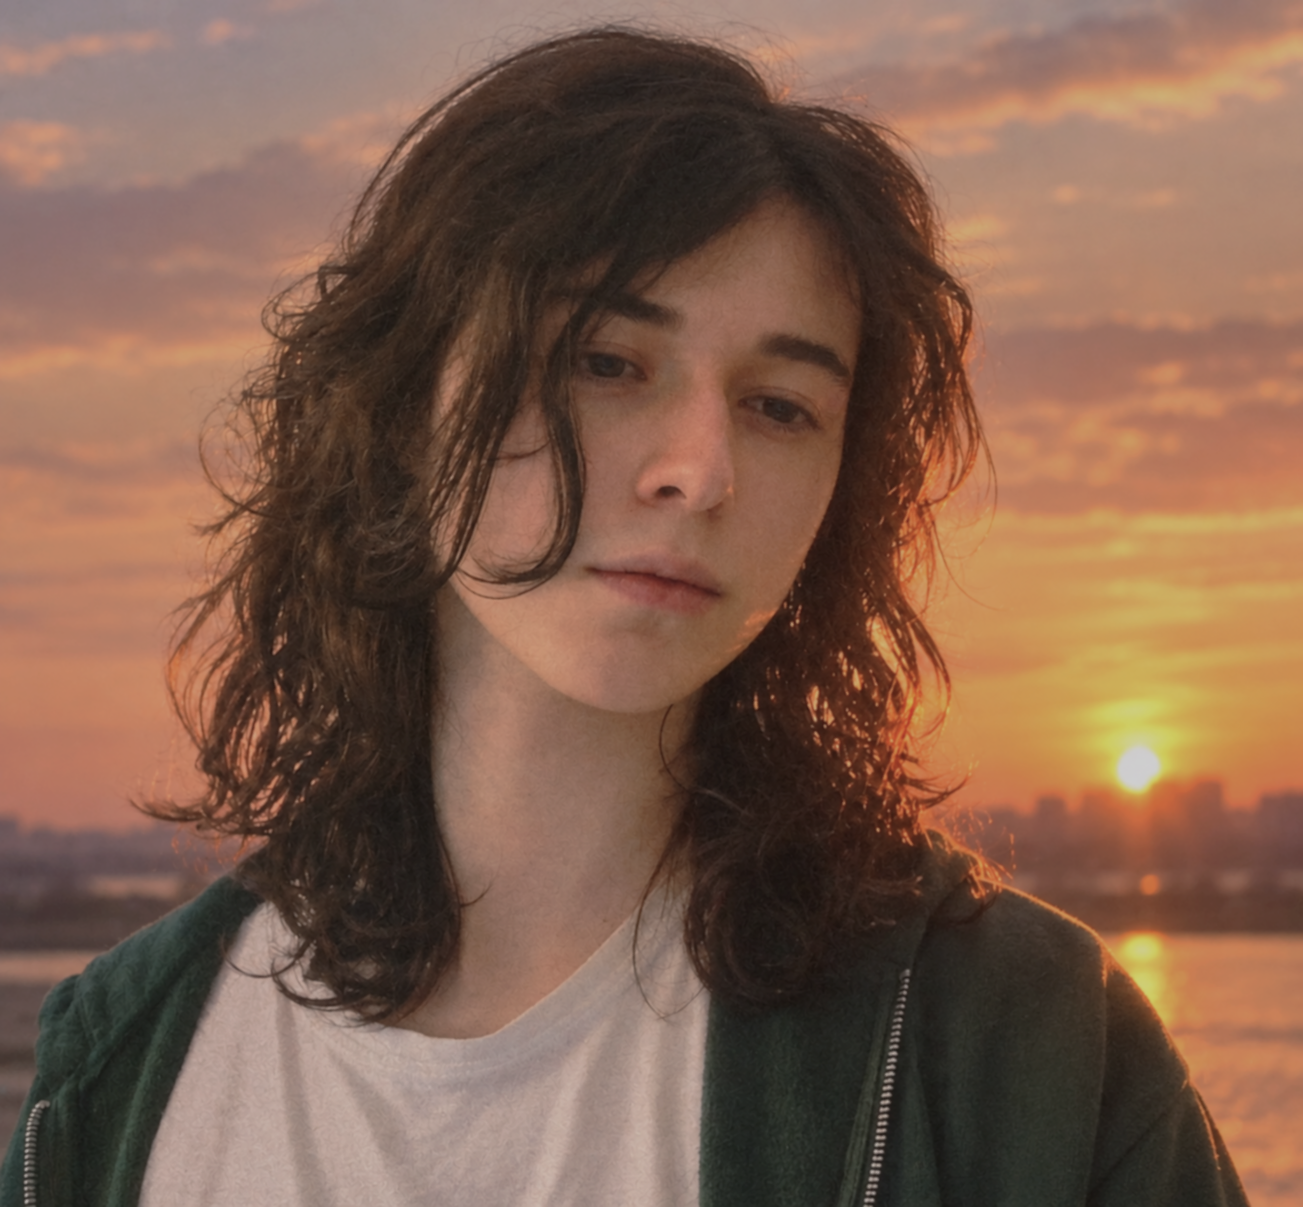
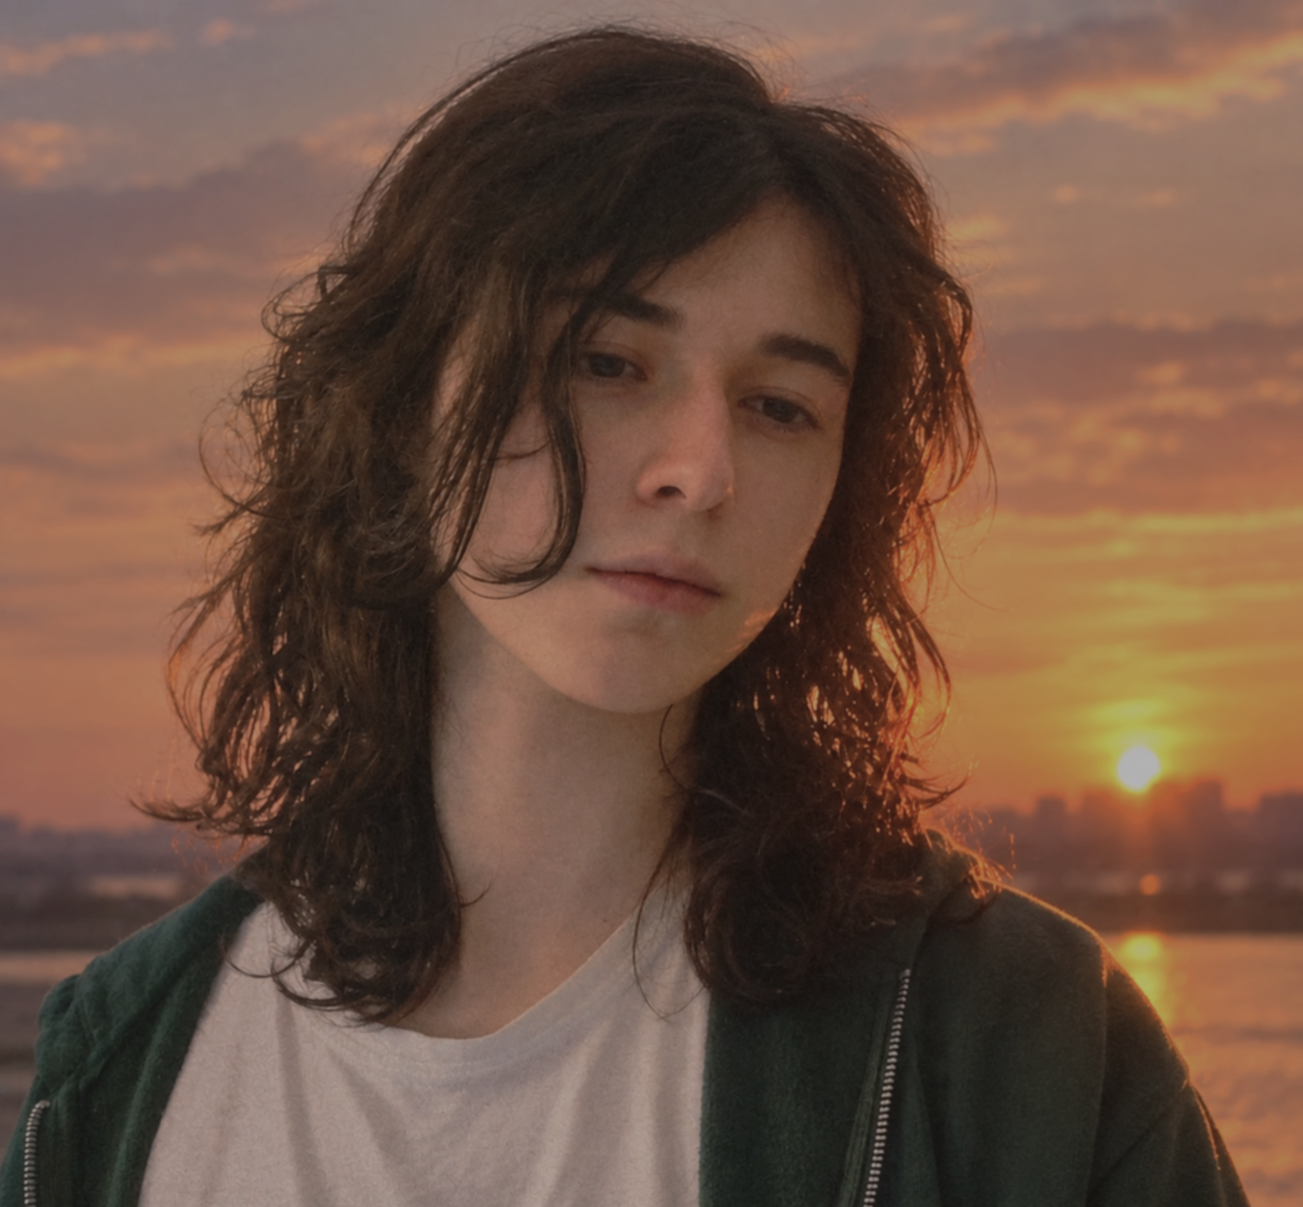
Update

diff --git a/index.html b/index.html
@@ -1990,7 +1990,7 @@
 
         <a class="team-entry__avatar" href="https://discord.com/users/452486308913479683" target="_blank">
 
-          <img src="none.jpg" alt="Khalil">
+          <img src="khalil.jpg" alt="Khalil">
 
         </a>
 
